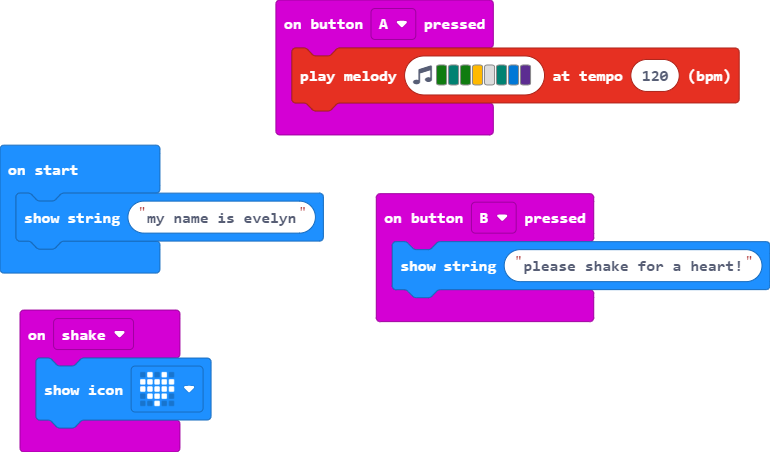
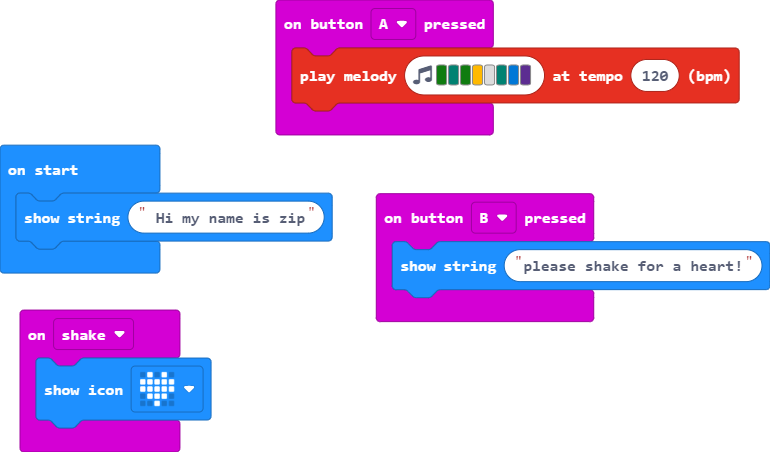
Update main.blocks, main.ts

Changed region(s): [[0.187, 0.4027, 0.4364, 0.5575]]

diff --git a/main.ts b/main.ts
@@ -7,4 +7,4 @@ input.onButtonPressed(Button.B, function () {
 input.onGesture(Gesture.Shake, function () {
     basic.showIcon(IconNames.Heart)
 })
-basic.showString("my name is evelyn")
+basic.showString(" Hi my name is zip")
